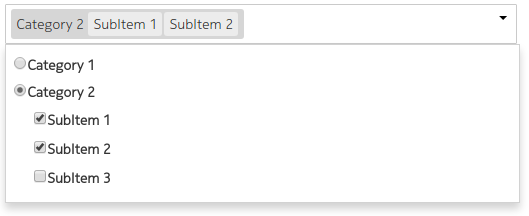
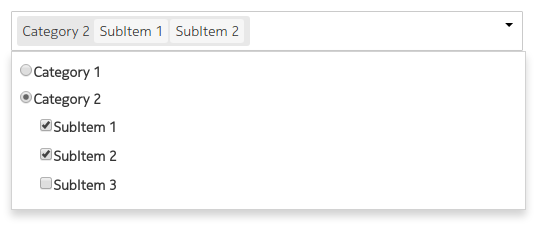
frontend changes

diff --git a/groupMultiSelect.css b/groupMultiSelect.css
@@ -25,7 +25,7 @@
 }
 .group-selection{
   border-radius: 3px;
-  background: #d6d6d6;
+  background: #e8e8e8;
   padding: 2px 5px;
   display: inline-block;
   margin-right: 15px;
@@ -46,7 +46,7 @@
 }
 .subitem-label{
   display: inline-block;
-  background: #ececec;
+  background: #f6f6f6;
   padding: 2px 5px;
   margin: auto 2px;
   border-radius: 3px;
